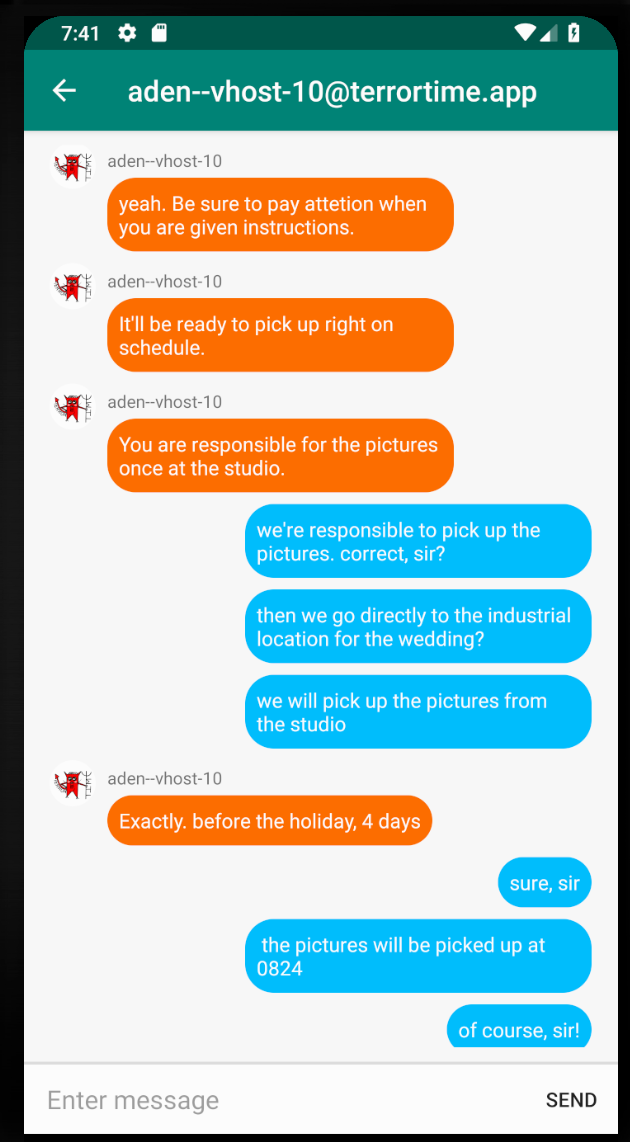
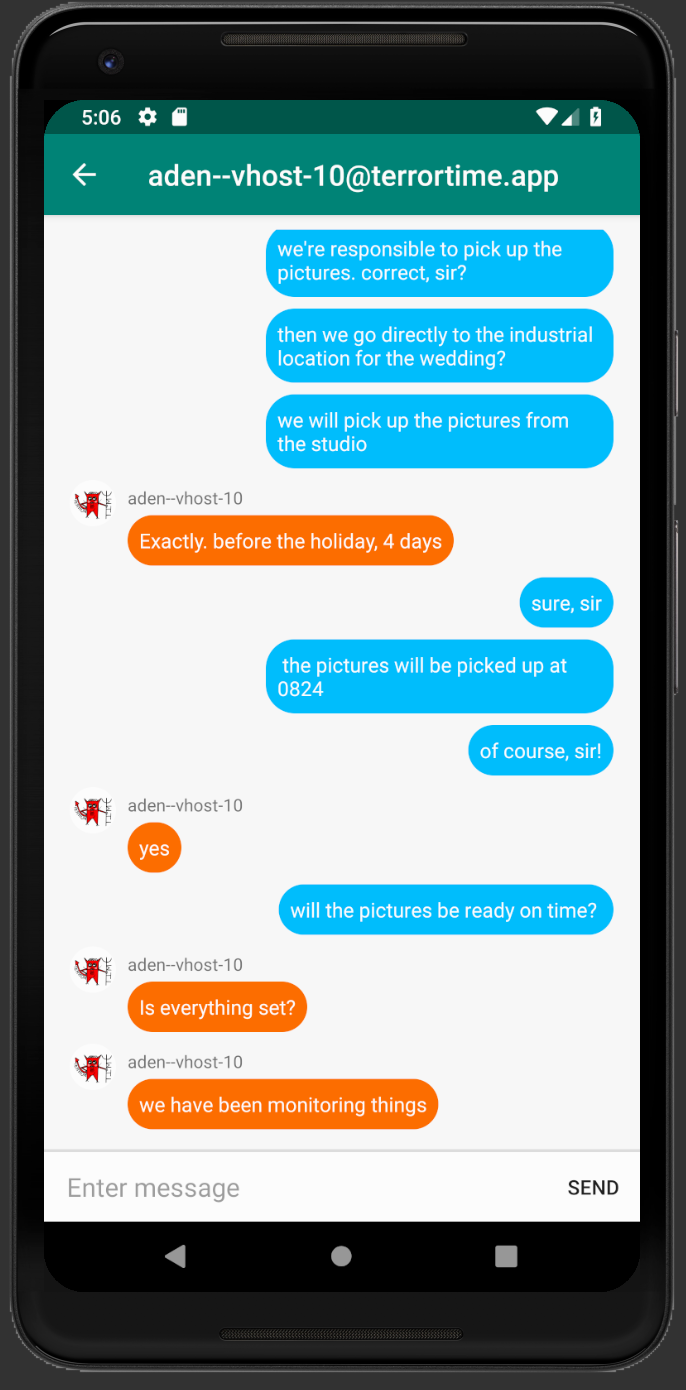
Redo message screenshots

diff --git a/task4/README.md b/task4/README.md
@@ -56,8 +56,8 @@ The APK should already be loaded into Android Studio, so all we need to do is up
 
 We can now masquerade as Jason! There are two contacts, Jazmin and Aden. The full transcript of the conversation can be found in `files/transcript.txt`.
 
-![Jazmin](images/jazmin.png)
-![Aden](images/aden.png)
+Jazmin                      | Aden
+![Jazmin](images/jazmin.png)| ![Aden](images/aden.png)
 
 Okay, let's start with the Cell Leader's username. It isn't in the screenshot above, but Jazmin at one point says _we will not let Aden down_, indicating that the Client ID for the Terror Cell Leader is:
 
